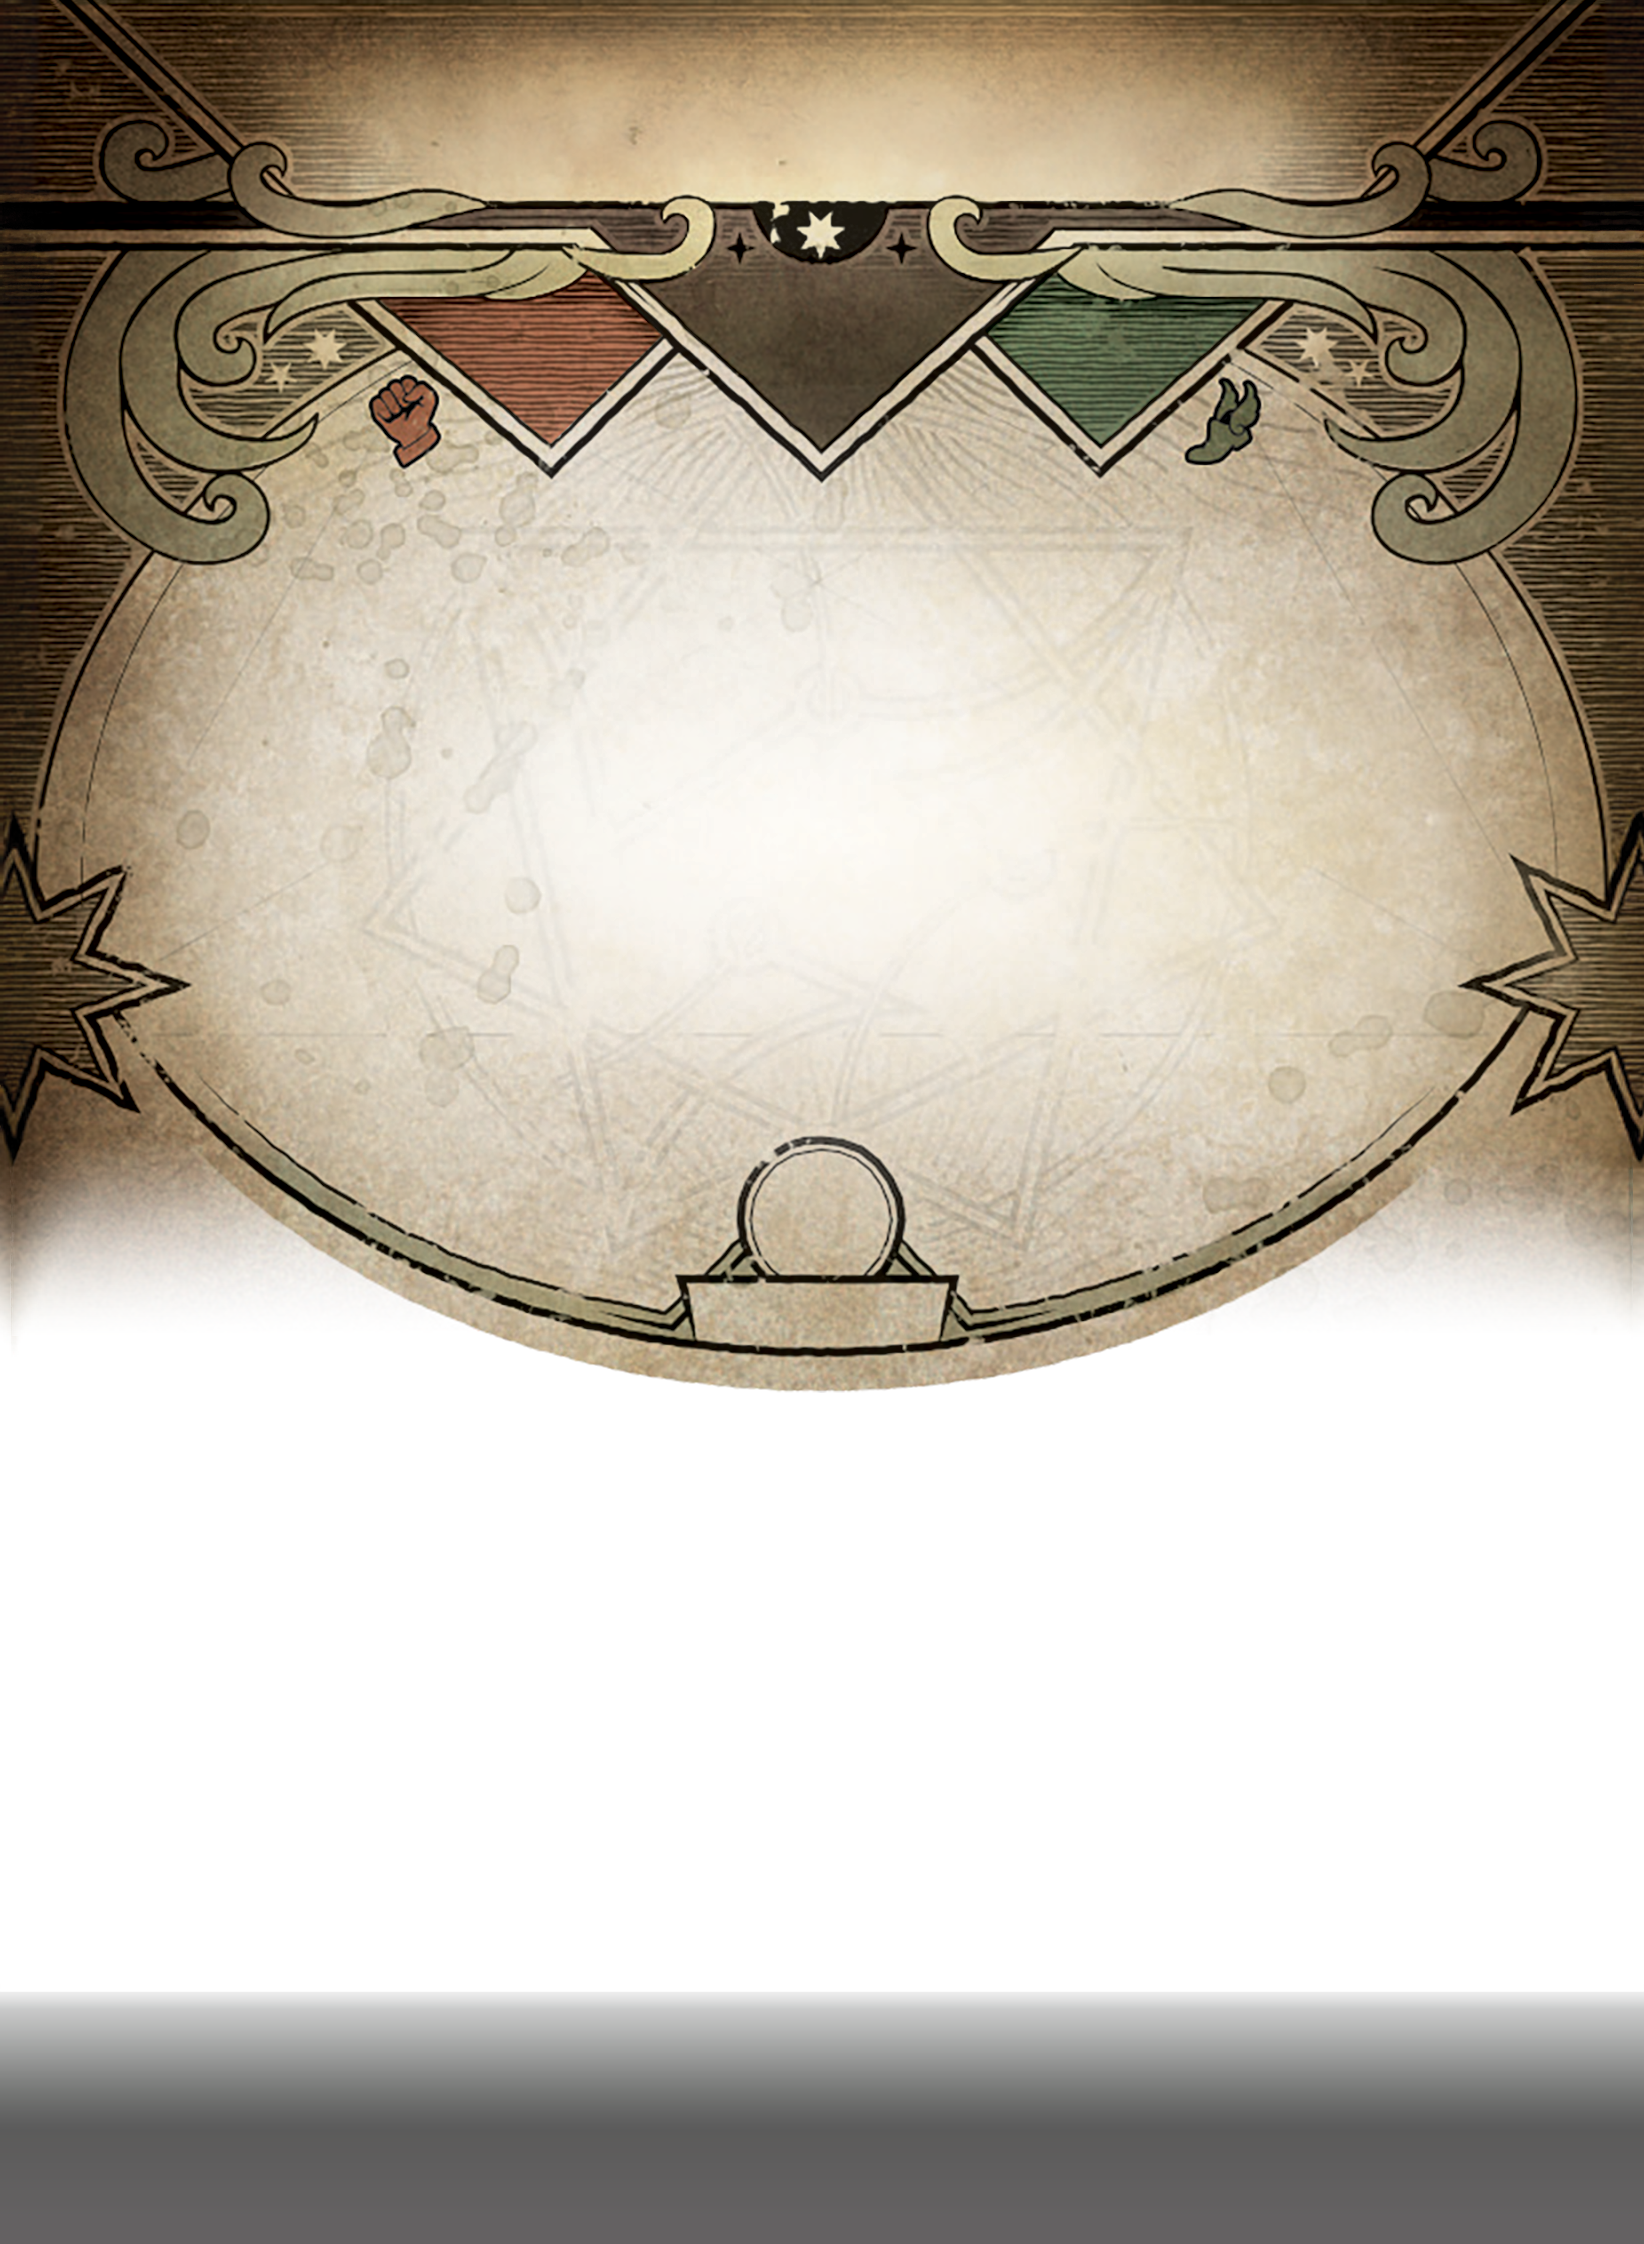
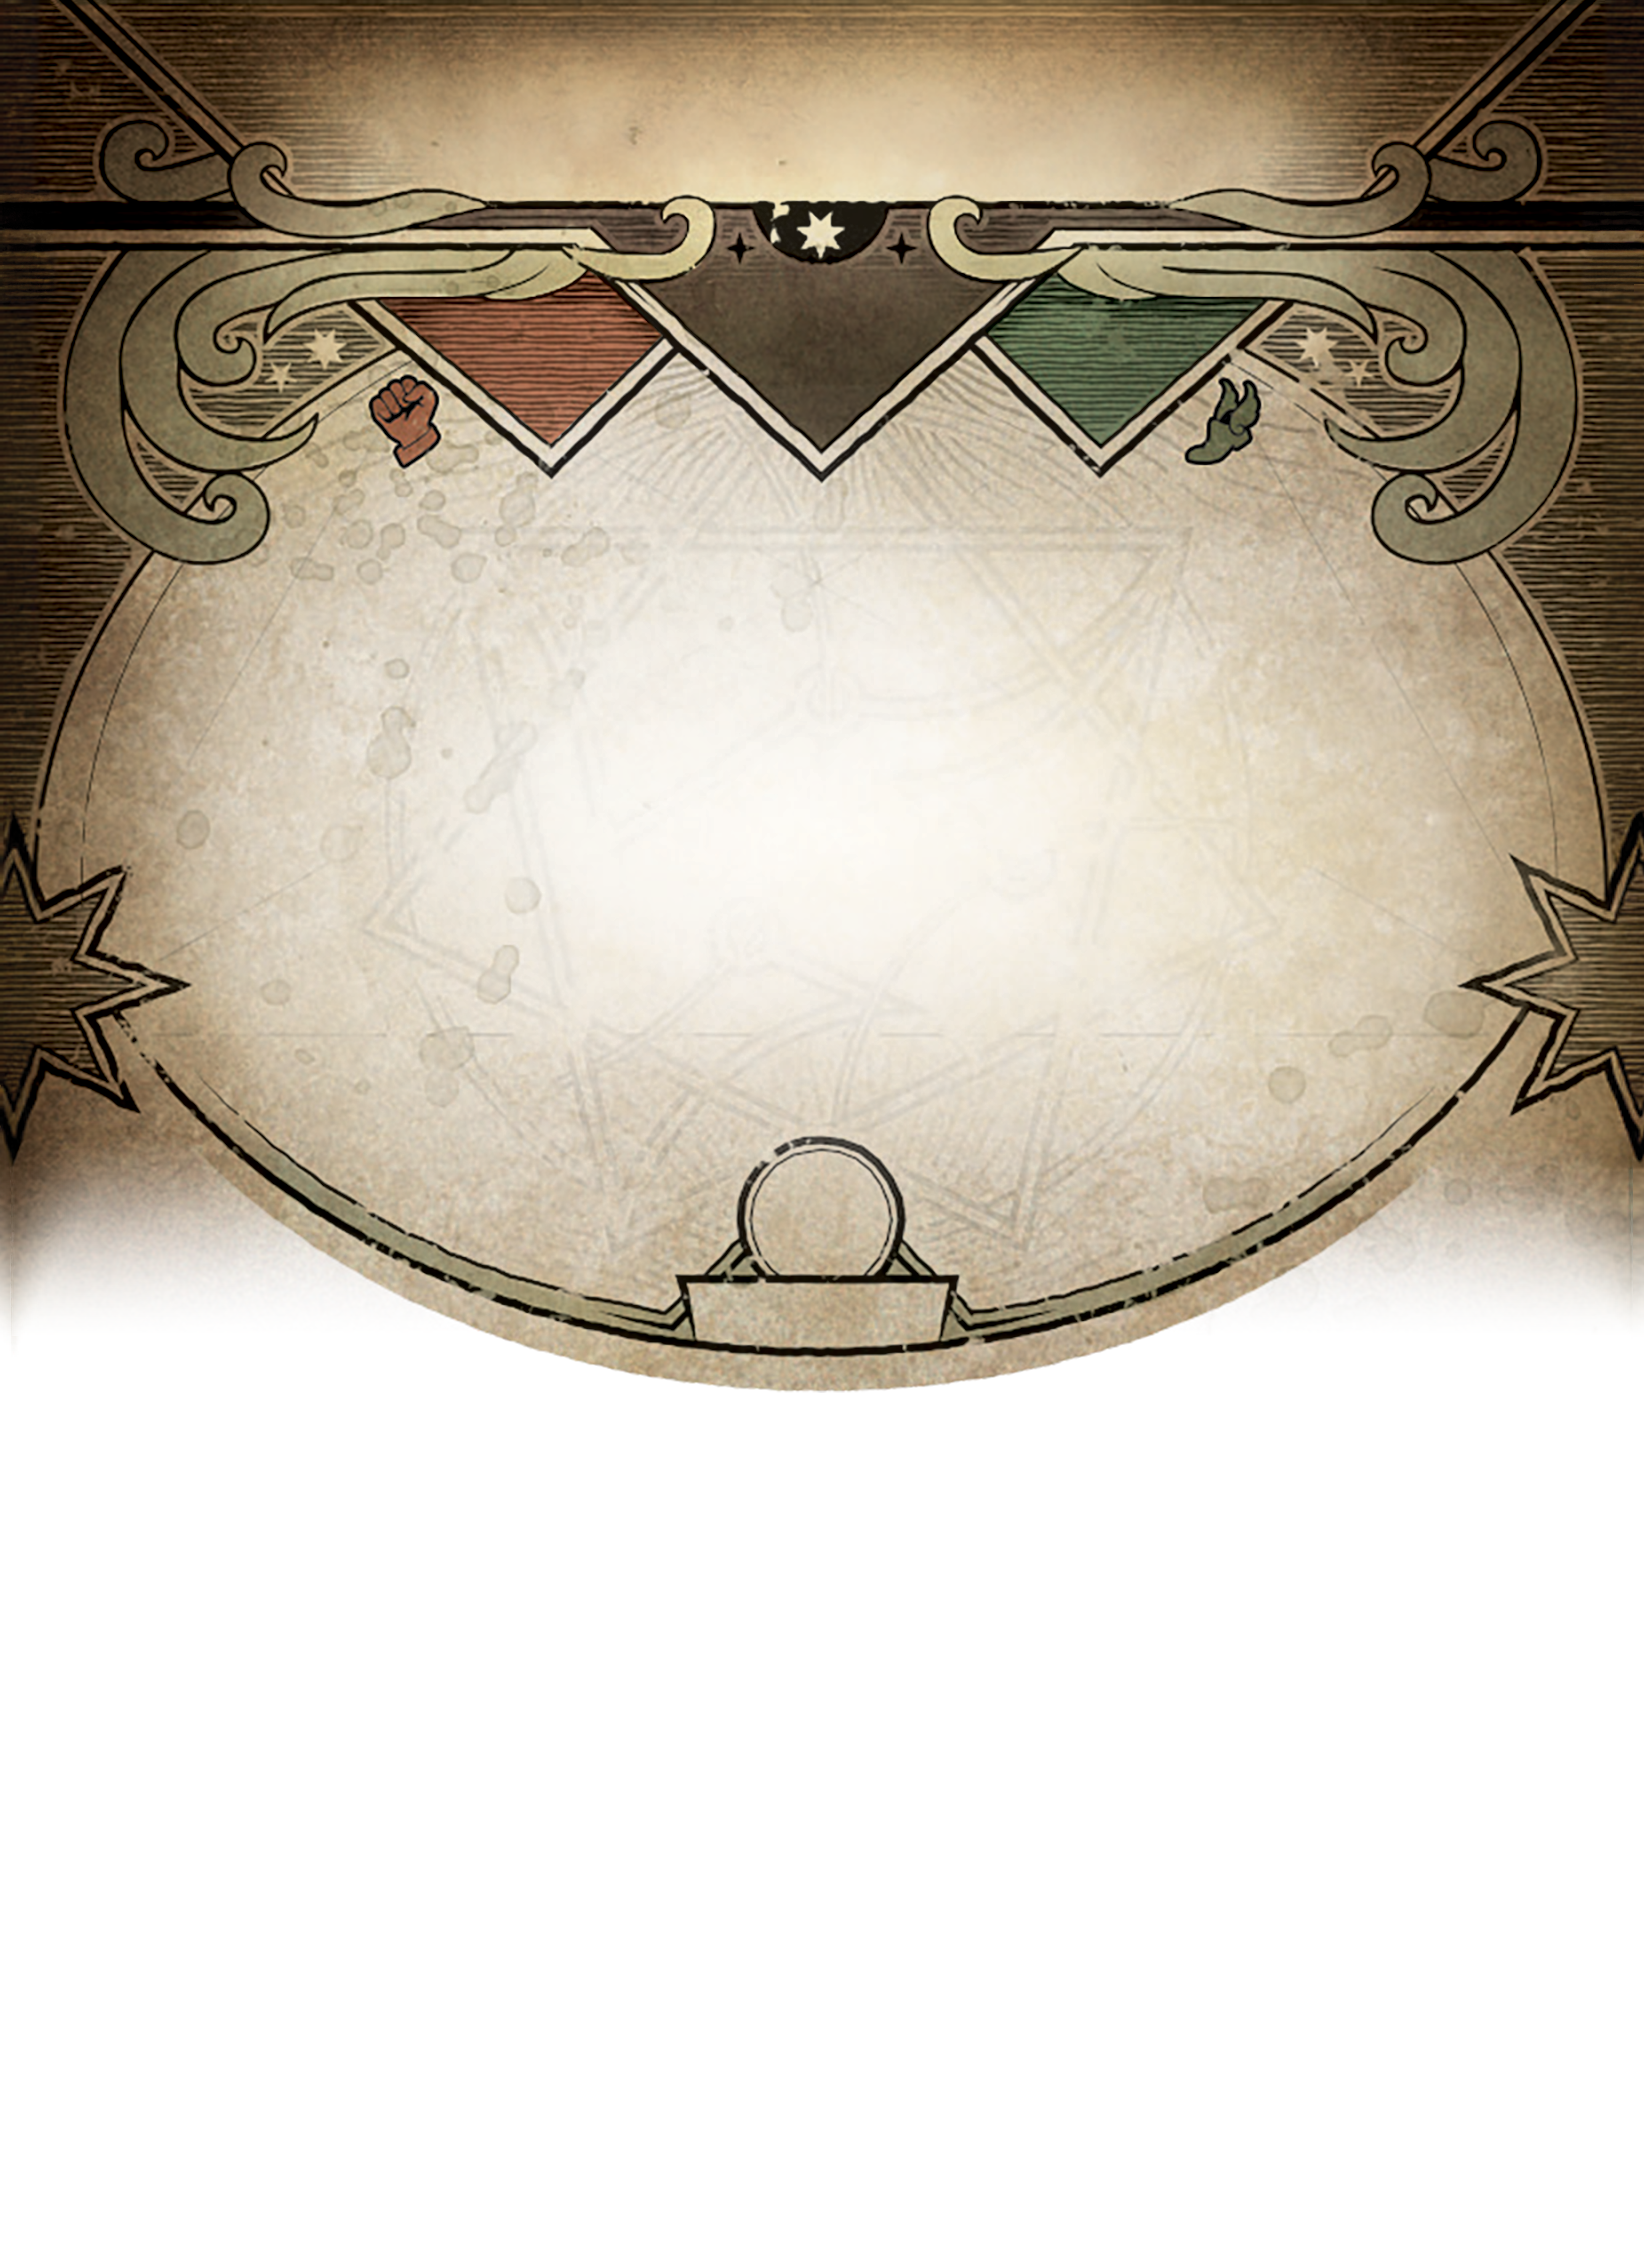
feat: multiply enemy footer shade over the art
The footer gradient moves from the Enemy templates to an overlay drawn with a multiply blend, which darkens the art without washing out its color.

Changed region(s): [[0.0, 0.8734, 1.0, 1.0]]

diff --git a/test/card-face-paint-image.test.js b/test/card-face-paint-image.test.js
@@ -19,7 +19,7 @@ Face.prototype.key = function (settings, name) {
     const key = this.template + '-' + name;
     return settings.get(key) != null ? key : 'AHLCG-Face-' + name;
 };
-const Java = { type: () => ({ WHITE: 'white', BLACK: 'black' }) };
+const Java = { type: () => ({ WHITE: 'white', BLACK: 'black', Multiply: 'multiply' }) };
 const imageutils = { ImageUtils: { get: key => ({ image: key }) } };
 const CardFace = load('faces/CardFace.js', {
     'faces/Face': Face,
@@ -109,4 +109,25 @@ test('readSubtype sets the story weakness key variant', () => {
         f.readSubtype({ settings: { get: () => subtype } }, 0);
         assert.equal(f.keyVariant, expected, subtype);
     }
+});
+
+test('paintMultiplied paints <template>-<name> with multiply and restores the composite', () => {
+    const calls = [];
+    let composite = 'normal';
+    const g = {
+        getComposite: () => composite,
+        setComposite(c) { composite = c; calls.push(['composite', c]); },
+    };
+    face().paintMultiplied(g, {
+        paintImage(_, key) { calls.push(['paint', key, composite]); },
+    }, 'Footer');
+    assert.deepEqual(calls, [
+        ['composite', 'multiply'],
+        ['paint', 'AHLCG-TestFace-Footer', 'multiply'],
+        ['composite', 'normal'],
+    ]);
+
+    // a failed paint still restores it
+    assert.throws(() => face().paintMultiplied(g, { paintImage() { throw new Error('gone'); } }, 'Footer'));
+    assert.equal(composite, 'normal');
 });

diff --git a/ArkhamHorrorLCG/ArkhamHorrorLCG/resources/ArkhamHorrorLCG/diy/faces/CardFace.js b/ArkhamHorrorLCG/ArkhamHorrorLCG/resources/ArkhamHorrorLCG/diy/faces/CardFace.js
@@ -567,6 +567,20 @@ define([
         return this.subtype === 'None' || this.subtype === 'StoryWeakness';
     };
 
+    // Paints <template>-<name> in its region with a multiply blend, which
+    // darkens what is under it without washing out its color.
+    CardFace.prototype.paintMultiplied = function (g, sheet, name) {
+        var composite = g.getComposite();
+        g.setComposite(
+            Java.type('ca.cgjennings.graphics.composites.BlendMode').Multiply
+        );
+        try {
+            sheet.paintImage(g, this.template + '-' + name);
+        } finally {
+            g.setComposite(composite);
+        }
+    };
+
     // a plug-in image, such as overlays/AHLCG-BasicWeakness.png, in the
     // face's <region>-region, or in area; a <region>-clip-region, where set,
     // clips it

diff --git a/ArkhamHorrorLCG/ArkhamHorrorLCG/resources/ArkhamHorrorLCG/diy/faces/EnemyFace.js b/ArkhamHorrorLCG/ArkhamHorrorLCG/resources/ArkhamHorrorLCG/diy/faces/EnemyFace.js
@@ -136,6 +136,20 @@ define([
         return title.length > 0 ? title : String(diy.name);
     };
 
+    // the footer shade multiplies over the art; a weakness or a replaced
+    // template has none
+    EnemyFace.prototype.paintTemplateImage = function (g, sheet, key) {
+        var replaced = CardFace.prototype.paintTemplateImage.call(
+            this,
+            g,
+            sheet,
+            key
+        );
+        if (!replaced && !this.isWeakness())
+            this.paintMultiplied(g, sheet, 'Footer');
+        return replaced;
+    };
+
     EnemyFace.prototype.paintContent = function (
         g,
         diy,
